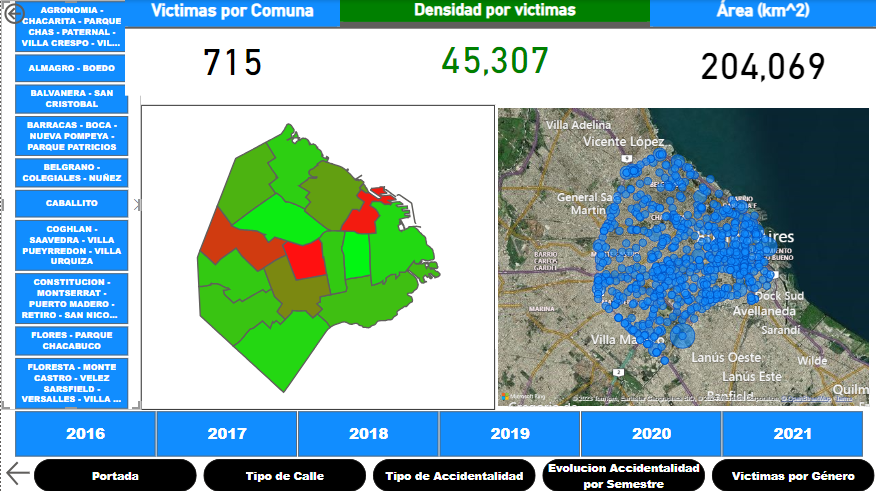
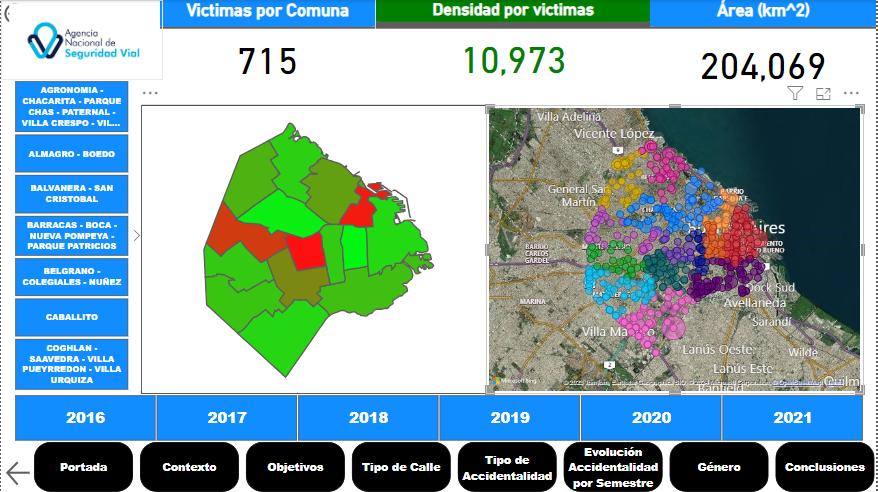
avance en el readmen

diff --git a/README.md b/README.md
@@ -53,6 +53,7 @@ $$\begin{cases}
 0 && \text{Si el accidente no fue en un cruce}\\
 -1 && \text{No existe registro de la ubicación}
 \end{cases}$$
+
 ## Cantidad de accidente en cruces por tipo de calle
 
 Los cruces de calles representan puntos críticos donde cualquier situación puede surgir, especialmente si los peatones o conductores están distraídos. En este análisis, nos enfocaremos en examinar la cantidad de víctimas en accidentes que ocurren específicamente en cruces, centrándonos en los distintos tipos de vías presentes en la Ciudad Autónoma de Buenos Aires (CABA): Avenidas, Autopistas, Calles y la General Paz.
@@ -113,6 +114,8 @@ Observamos que la cantidad de accidentes en cruces ha experimentado una disminuc
 
 # Indicadores de desempeño
 
+<p align="center"><img src="images\objetivos.png" alt="nulos de hechos"></p>
+
 Queremos monitorear la evulución de la accidentalidad, en las 15 comunas de CABA. para esto, nos basamos en el analisis anterior y en las consignas solicitadas por el cliente para controlar y monitorear de manera oportuna las situaciones más relevantes en la movilidad.
 ************************************************************************************************************************************
 
@@ -164,17 +167,22 @@ $$\frac{población(millones)}{área(km^2)}\cdot (\text{número de victimas})$$
 
 <p align="center"><img src="images\06_victimas_sexo.png" alt="nulos de hechos"></p>
 
-## Conclusiones
-
-conclusión...
+<p align="center"><img src="images\conclusiones.png" alt="nulos de hechos"></p>
 
 ## Base de datos
+- Tabla con información sobre la población en las comunas de caba [link](https://www.indec.gob.ar/ftp/cuadros/poblacion/proy_1025_depto_caba.xls)
 
-https://www.indec.gob.ar/ftp/cuadros/poblacion/proy_1025_depto_caba.xls
+- Página oficial de indec. [link](https://www.indec.gob.ar/ )
 
+- Encontraras la base de datos suministrada por el cliente en la pagina oficial de indec -> [link](https://data.buenosaires.gob.ar/dataset/victimas-siniestros-viales)
 
-https://www.indec.gob.ar/ -- informacion de la poblacion
+- Encotraras la geolocalización de caba en formato geojson -> [link](https://data.buenosaires.gob.ar/dataset/comunas/resource/b0b627ac-5b47-4574-89ac-6999b63598ee)
 
-[link](https://data.buenosaires.gob.ar/dataset/victimas-siniestros-viales) -- base de datos
-
-https://data.buenosaires.gob.ar/dataset/comunas/resource/b0b627ac-5b47-4574-89ac-6999b63598ee -- geojson
+## Tecnologias utilizadas
+![Static Badge](https://img.shields.io/badge/PowerBI-gray?style=flat&logo=powerbi)
+![Static Badge](https://img.shields.io/badge/Python-gray?style=flat&logo=python)
+![Static Badge](https://img.shields.io/badge/-Pandas-gray?style=flat&logo=pandas)
+![Static Badge](https://img.shields.io/badge/-Matplotlib-gray?style=flat&logo=matplotlib)
+![Static Badge](https://img.shields.io/badge/-Seaborn-gray?style=flat&logo=seaborn)
+![Static Badge](https://img.shields.io/badge/-Jupyter_Notebook-gray?style=flat&logo=jupyter)
+![Static Badge](https://img.shields.io/badge/Visual_Studio_Code-gray?style=flat&logo=visual%20studio%20code&logoColor=white)
